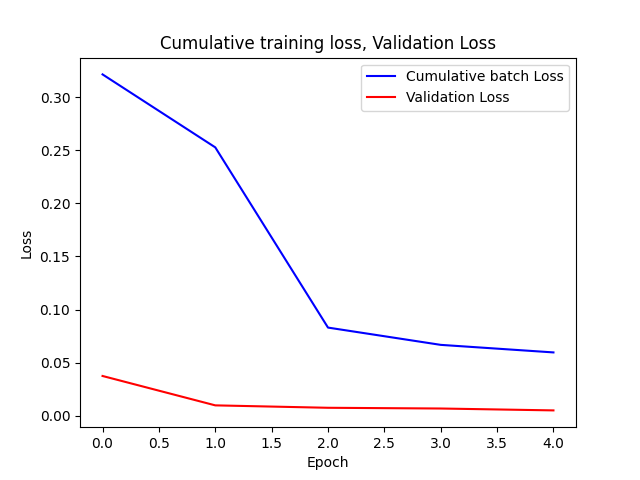
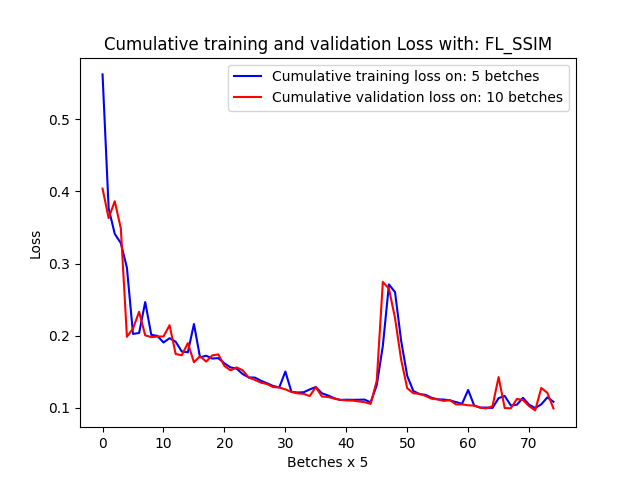
end-to-end done. To do: fix and refine architecture.

diff --git a/MyUtilities.py b/MyUtilities.py
@@ -1,4 +1,5 @@
 import glob
+import os
 from PIL import Image
 from torchvision import transforms
 from torch.utils.data import Dataset
@@ -35,7 +36,7 @@ class MayoDataset(Dataset):
         return hResolution, lResolution
     
 class MyTrainer():
-    def __init__(self, model, train_loader, optimizer, num_epochs, scheduler, loss_fn=torch.nn.MSELoss(), saveModel=False, modelName="model", validation_loader=None, test_loader=None):
+    def __init__(self, model, train_loader, optimizer, num_epochs, scheduler, loss_fn=torch.nn.MSELoss(), saveModel=False, modelName="model", validation_loader=None, test_loader=None, best_model=False, betchTrainingValidationPrint = 5, evalMetrich = None):
         self.device = 'cuda' if torch.cuda.is_available() else 'cpu'
         self.model = model
         model.to(self.device)
@@ -48,6 +49,9 @@ class MyTrainer():
         self.modelName = modelName
         self.test_loader = test_loader
         self.validation_loader = validation_loader
+        self.best_model = best_model
+        self.betchTrainingValidationPrint = betchTrainingValidationPrint
+        self.evalMetrich = evalMetrich
 
     def evaluate(self, samples, grad = False):
         x, y = samples # (x, y): x = grandTruth, y = LowResolution x = [x1,x2,x3....], y = [y1,y2,y3....]
@@ -63,8 +67,11 @@ class MyTrainer():
         loss = self.loss_fn(x_pred, x) 
         return loss, y, x_pred
 
-    def test(self, evalMetrich = None): 
-        print(f'🔁 : Testing=> {evalMetrich.__name__ if evalMetrich else "Loss function"}')
+    def test(self): 
+        print(f'🔄️ :Testing=> {self.evalMetrich.__name__ if self.evalMetrich else "Loss function"}')
+        if not self.test_loader:
+            print(f'🚨 No one test set.')
+            return
         CumulativeEvaluation = 0.0
         samplesCounter = 0
 
@@ -72,40 +79,44 @@ class MyTrainer():
             print(f'🔁 : test batch: {testIndex}', end='\r')
             test_Loss, _, modelPredictions = self.evaluate(testSamples, grad=False)
 
-            if evalMetrich:
+            if self.evalMetrich:
                 for i in range(len(modelPredictions)):
 
                     x = testSamples[0][i].cpu().numpy()
                     x_pred_sample = modelPredictions[i].cpu().numpy()
 
-                    if evalMetrich.__name__ == 'structural_similarity':
+                    if self.evalMetrich.__name__ == 'structural_similarity':
                         x = x.squeeze() 
                         x_pred_sample = x_pred_sample.squeeze() 
 
-                    CumulativeEvaluation += evalMetrich(x, x_pred_sample, data_range=1.0)
+                    CumulativeEvaluation += self.evalMetrich(x, x_pred_sample, data_range=1.0)
                     samplesCounter += 1
 
             else:
                 CumulativeEvaluation += test_Loss.item()
 
-        print(f'⚠️: Average {evalMetrich.__name__ if evalMetrich else "Loss function"} on Test Set: {CumulativeEvaluation/samplesCounter if evalMetrich else CumulativeEvaluation/len(self.test_loader):.4f}')
+        print(f'⚠️: Average {self.evalMetrich.__name__ if self.evalMetrich else "Loss function"} on Test Set: {CumulativeEvaluation/samplesCounter if self.evalMetrich else CumulativeEvaluation/len(self.test_loader):.4f}')
 
     def train(self):
+        epochs = []
         loss_history = []
         validation_Loss_history = []
+        currentBestModelValidationLoss = float('inf')
 
         fig, ax = plt.subplots()
-        ax.set_xlabel('Epoch')
-        ax.set_ylabel('Loss')
-        ax.set_title('Cumulative training loss, Validation Loss')
+        ax.set_xlabel(f'Epoch')
+        ax.set_ylabel('Losses')
+        ax.set_title(f'Cumulative training and validation Loss with: {self.loss_fn.__name__}')
         line, = ax.plot([], [], 'b-')
         val_line, = ax.plot([], [], 'r-')
 
         for epoch in range(self.num_epochs):
-            cumulativeLoss = 0.0
+
+            cumulativeLoss = 0.0 # Cumulative training loss over self.betchTrainingValidationPrint betches
+            
             for trainIndex, trainSamples in enumerate(self.train_loader):
                 # sample = (hREsolution, lResolution)
-                print(f'⚠️: Batch {trainIndex}/{len(self.train_loader)}', end='\r')
+                print(f'🔄️ : Training on batch {trainIndex}/{len(self.train_loader)}', end='\r')
 
                 loss, _, _ = self.evaluate(trainSamples, grad=True)
                 cumulativeLoss += loss.item()
@@ -116,29 +127,51 @@ class MyTrainer():
 
                 self.scheduler.step()
 
-            loss_history.append(cumulativeLoss / len(self.train_loader))
+                if trainIndex > 0 and trainIndex % self.betchTrainingValidationPrint == 0:
+                    
+                    loss_history.append(cumulativeLoss / self.betchTrainingValidationPrint)
+                    epochs.append((epoch * len(self.train_loader) + trainIndex) / len(self.train_loader))
+                    # batch attuale / batch per epoca
+                    cumulativeLoss = 0.0
 
-            if self.validation_loader is not None:
-                print(f'🔁 : Evaluating on validation set...', end='\r')
-                cumulativeValidationLoss = 0
-                for validationIndex, validationSamples in enumerate(self.validation_loader):
-                    print(f'🔁 : validation batch: {validationIndex}', end='\r')
-                    validation_Loss, _, _ = self.evaluate(validationSamples, grad=False)
-                    cumulativeValidationLoss += validation_Loss
-                validation_Loss_history.append(validation_Loss.item()/len(self.validation_loader))
-                val_line.set_ydata(validation_Loss_history)
-                val_line.set_xdata(range(len(validation_Loss_history)))
-                val_line.set_label('Validation Loss')
+                    if self.validation_loader is not None:
+                        print(f'🔄️ : Evaluating on validation set...', end='\r')
+                        print()
 
-            line.set_xdata(range(len(loss_history)))
-            line.set_ydata(loss_history)
-            line.set_label('Cumulative batch Loss')
-            ax.legend()
-            ax.relim()
-            ax.autoscale_view()
+                        cumulativeValidationLoss = 0 # Cumulative validation loss over all validation set
 
-            fig.savefig(f"{self.modelName}_Training_Loss_Plot.png")
-            print(f'✅: Saved loss plot: {self.modelName}_Training_Loss_Plot.png')
+                        for validationIndex, validationBetch in enumerate(self.validation_loader):
+                            print(f'🔄️ : validation batch: {validationIndex}/{len(self.validation_loader)}', end='\r')
+
+                            validation_Loss, _, _ = self.evaluate(validationBetch, grad=False)
+                            cumulativeValidationLoss += validation_Loss.item() #⚠️⚠️
+
+                        avarageValidationLoss = cumulativeValidationLoss/len(self.validation_loader)
+
+                        # If the current cumulative validation loss is the minimum validation loss them save this model
+                        if self.best_model and  avarageValidationLoss < currentBestModelValidationLoss:
+                            print()
+                            print(f'⏬: Saving best model: {self.modelName}', end='\r')
+                            print()
+                            currentBestModelValidationLoss = avarageValidationLoss
+                            torch.save(self.model.state_dict(), f'{self.modelName}.pth')
+
+                        validation_Loss_history.append(avarageValidationLoss)
+
+                        val_line.set_ydata(validation_Loss_history)
+                        val_line.set_xdata(epochs)
+                        val_line.set_label(f'Cumulative validation loss on: {len(self.validation_loader)} betches')
+
+                    line.set_xdata(epochs)
+                    line.set_ydata(loss_history)
+                    line.set_label(f'Cumulative training loss on: {self.betchTrainingValidationPrint} betches')
+                    ax.legend()
+                    ax.relim()
+                    ax.autoscale_view()
+
+                    fig.savefig(f"{self.modelName}_Training_Loss_Plot.png")
+                    print(f'✅: Saved loss plot: {self.modelName}_Training_Loss_Plot.png', end='\r')
+                    print()
 
             print()
             print(f'👉 Epoch {epoch}, Loss: {loss.item()}, LR: {self.scheduler.get_last_lr()}', end='\r')
@@ -146,9 +179,52 @@ class MyTrainer():
 
         plt.close(fig)
 
-        if self.saveModel:
-            print('⚠️: Saving model: ', self.modelName)
+        if self.saveModel and not self.best_model:
+            print('✅: Saving model at end training: ', self.modelName)
             torch.save(self.model.state_dict(), f'{self.modelName}.pth')
+
+    def testOnImage(self, path, data_shape_HR, data_shape_LR, noise_level):
+        hResolution = Image.open(path).convert('L') 
+        hResolution = transforms.Compose([ 
+            transforms.ToTensor(), 
+            transforms.Resize(data_shape_HR), 
+        ])(hResolution)
+
+        lResolution = transforms.Resize(data_shape_LR)(hResolution) #Downsampling dell'immagine ad alta risoluzione 
+        with torch.no_grad():
+            lResolution += utilities.gaussian_noise(lResolution, noise_level) #Aggiunta di rumore gaussiano all'immagine a bassa risoluzione ⚠️⚠️⚠️
+        lResolution = transforms.Resize(data_shape_HR)(lResolution) #Upsampling dell'immagine a bassa risoluzione alla stessa dimensione dell'immagine ad alta risoluzione
+
+        # Esegui il modello sull'immagine lResolution e confronta il risultato con hResolution
+        #self.model.eval()
+        with torch.no_grad():
+            lResolution = lResolution.unsqueeze(0).to(self.device)
+            hResolution = hResolution.unsqueeze(0).to(self.device)
+            prediction = self.model(lResolution)
+
+        prediction = prediction.squeeze(0)
+        target = hResolution.squeeze(0)
+
+        if self.evalMetrich:
+            x_pred_np = prediction.cpu().numpy()
+            target_np = target.cpu().numpy()
+            if self.evalMetrich.__name__ == 'structural_similarity':
+                x_pred_np = x_pred_np.squeeze()
+                target_np = target_np.squeeze()
+            metric_value = self.evalMetrich(target_np, x_pred_np, data_range=1.0)
+        else:
+            metric_value = self.loss_fn(prediction.unsqueeze(0), hResolution).item()
+
+        # Save prediction and target as images
+        os.makedirs('Results', exist_ok=True)
+        pred_img = transforms.ToPILImage()(prediction.cpu())
+        target_img = transforms.ToPILImage()(target.cpu())
+        pred_path = os.path.join('Results', 'prediction.png') #⚠️⚠️⚠️ Fix
+        target_path = os.path.join('Results', 'target.png') #⚠️⚠️⚠️ Fix
+        pred_img.save(pred_path)
+        target_img.save(target_path)
+
+        return metric_value
 
 class FourierLoss(nn.Module):
     def forward(self, x, y):
@@ -172,8 +248,12 @@ class SSIMLoss(nn.Module): # it compares local patches based on luminance, contr
         return 1.0 - ssim_map.mean()
     
 class Losses():
-    def FL_SSIM(self,FL=0.5, SSIM=0.5):
-        return lambda x, y: FL * FourierLoss()(x, y) + SSIM * SSIMLoss()(x, y)
-    
+    def FL_SSIM(self, FL=0.5, SSIM=0.5):
+        fn = lambda x, y: FL * FourierLoss()(x, y) + SSIM * SSIMLoss()(x, y)
+        fn.__name__ = "FL_SSIM" 
+        return fn
+
     def MSE_SSIM_FL(self, MSE=0.3, FL=0.3, SSIM=0.3):
-        return lambda x, y: MSE * torch.nn.MSELoss()(x, y) + FL * FourierLoss()(x, y) + SSIM * SSIMLoss()(x, y)
+        fn = lambda x, y: MSE * torch.nn.MSELoss()(x, y) + FL * FourierLoss()(x, y) + SSIM * SSIMLoss()(x, y)
+        fn.__name__ = "MSE_SSIM_FL" 
+        return fn

diff --git a/esame.py b/esame.py
@@ -78,38 +78,48 @@ class UNet(nn.Module):
 
         return self.final_conv(up2) 
     
-dataSet = MayoDataset(data_path='./Mayo/train', data_shape_HR=(256, 256), data_shape_LR=(128, 128), noise_level=0.005)
-trainSet, testSet = train_test_split(dataSet, test_size=0.25, random_state=42)
-testSet, validationSet = train_test_split(testSet, test_size=0.35, random_state=42)
+dataSetTrain = MayoDataset(data_path='./Mayo/train', data_shape_HR=(256, 256), data_shape_LR=(128, 128), noise_level=0.005)
+trainSet, validationSet = train_test_split(dataSetTrain, test_size=0.25, random_state=42)
+testSet = MayoDataset(data_path='./Mayo/test', data_shape_HR=(256, 256), data_shape_LR=(128, 128), noise_level=0.005)
+betchSize = 32
 
-print(f'⚠️ Training set size: {len(trainSet)}')
-print(f'⚠️ Test set size: {len(testSet)}')
-print(f'⚠️ Validation set size: {len(validationSet)}')
 
-trainLoader = DataLoader(trainSet, batch_size=32, shuffle=True)
-validationLoader = DataLoader(validationSet, batch_size=32, shuffle=True)
-testLoader = DataLoader(testSet, batch_size=32, shuffle=True)
+print(f'⚠️ Training set size: {len(trainSet)} with betch: {betchSize}')
+print(f'⚠️ Test set size: {len(testSet)} with betch: {betchSize}')
+print(f'⚠️ Validation set size: {len(validationSet)} with betch: {betchSize}')
+
+trainLoader = DataLoader(trainSet, batch_size=betchSize, shuffle=True)
+validationLoader = DataLoader(validationSet, batch_size=betchSize, shuffle=True)
+testLoader = DataLoader(testSet, batch_size=betchSize, shuffle=True)
 
 modelUNet = UNet(in_channels=1, out_channels=1) 
-#modelUNet.load_state_dict(torch.load('./model.pth'))
+#modelUNet.load_state_dict(torch.load('./UNet_FL_SSIM.pth'))
 
-optimizerUNet = torch.optim.Adam(modelUNet.parameters(), lr=1e-3)
+optimizerUNet = torch.optim.Adam(modelUNet.parameters(), lr=1e-4)
 
 trainerUNet = MyTrainer(
     model=modelUNet, 
     train_loader=trainLoader, 
     optimizer=optimizerUNet,
-    loss_fn= Losses().FL_SSIM(FL=0.2, SSIM=0.8),
+    loss_fn= Losses().MSE_SSIM_FL(MSE=0.1, FL=0.3, SSIM=0.6),
     scheduler=torch.optim.lr_scheduler.CosineAnnealingLR(optimizerUNet, T_max=10), 
     num_epochs=5,
     validation_loader=validationLoader,
-    test_loader=testLoader, 
-    saveModel=True,
-    modelName="UNet_FL_SSIM"
+    test_loader=testLoader,
+    modelName="UNet_MSE_SSIM_FL",
+    best_model=True,
+    betchTrainingValidationPrint=5,
+    evalMetrich=structural_similarity
+    # It compares local image patches in terms of luminance, contrast, and structure, and is therefore much more sensitive to structural distortions. SSIM usually takes values between 0 and 1, where values closer to 1 indicate higher similarity.
     )
+
 
 trainerUNet.train()
 trainerUNet.test()
-trainerUNet.test(evalMetrich=peak_signal_noise_ratio) # A larger PSNR corresponds to a smaller pixel-wise error. It remains a pixel-wise fidelity measure.
-trainerUNet.test(evalMetrich=structural_similarity) # It compares local image patches in terms of luminance, contrast, and structure, and is therefore much more sensitive to structural distortions. SSIM usually takes values between 0 and 1, where values closer to 1 indicate higher similarity.
+print('Test on image: ', trainerUNet.testOnImage(path='./267.png', data_shape_HR=(256, 256), data_shape_LR=(128, 128), noise_level=0.005))
+
+trainerUNet.evalMetrich = peak_signal_noise_ratio
+# A larger PSNR corresponds to a smaller pixel-wise error. It remains a pixel-wise fidelity measure.
+trainerUNet.test()
+
 